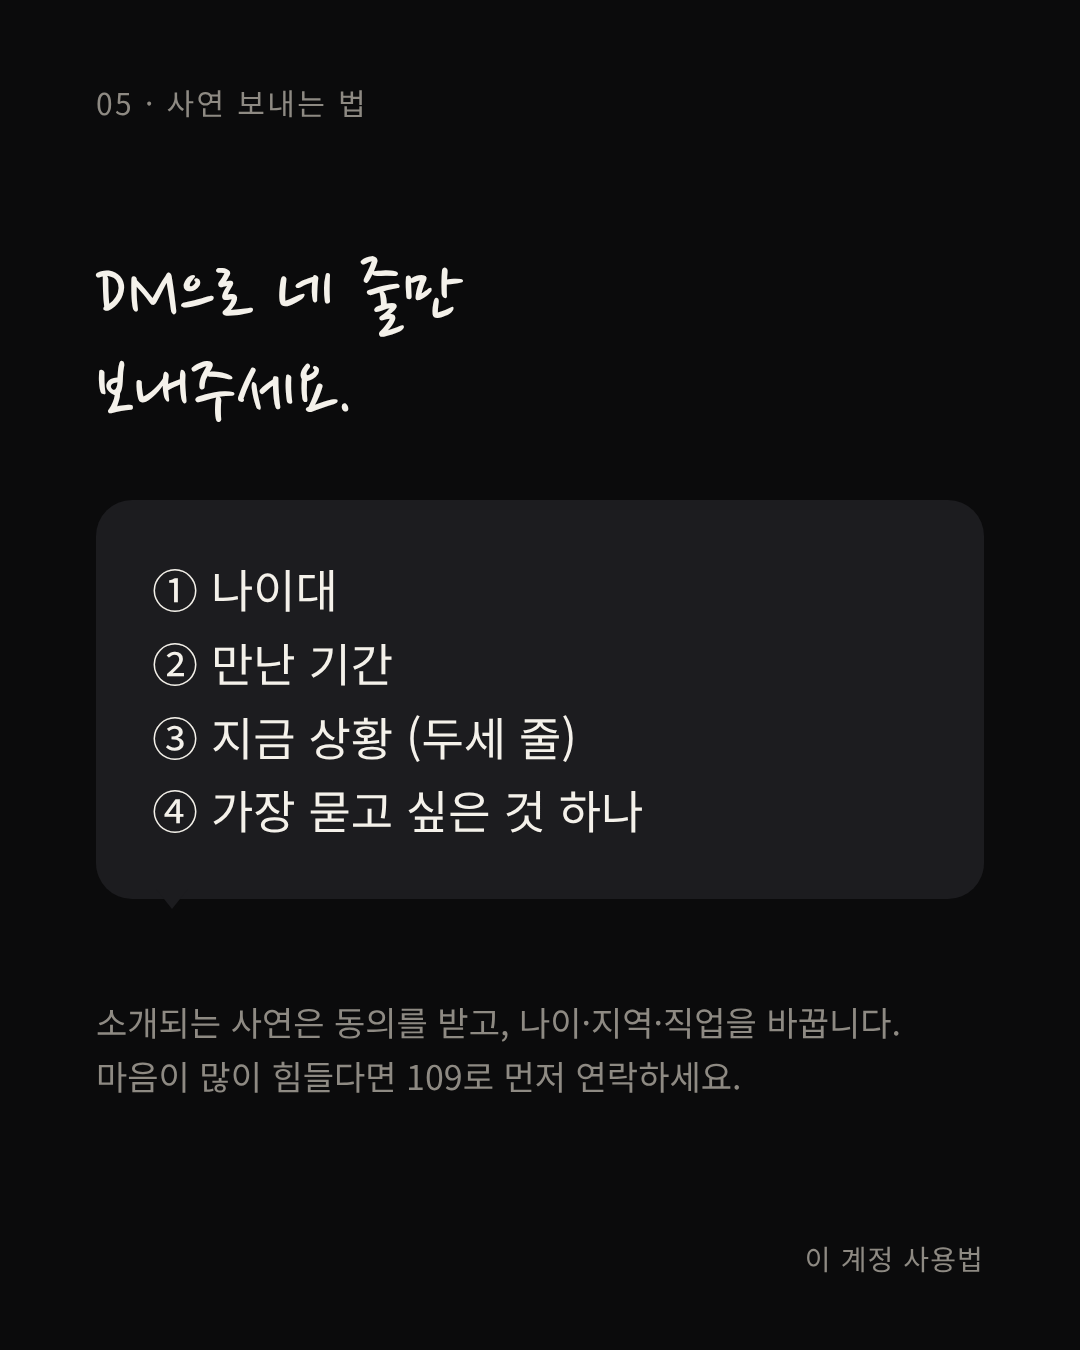
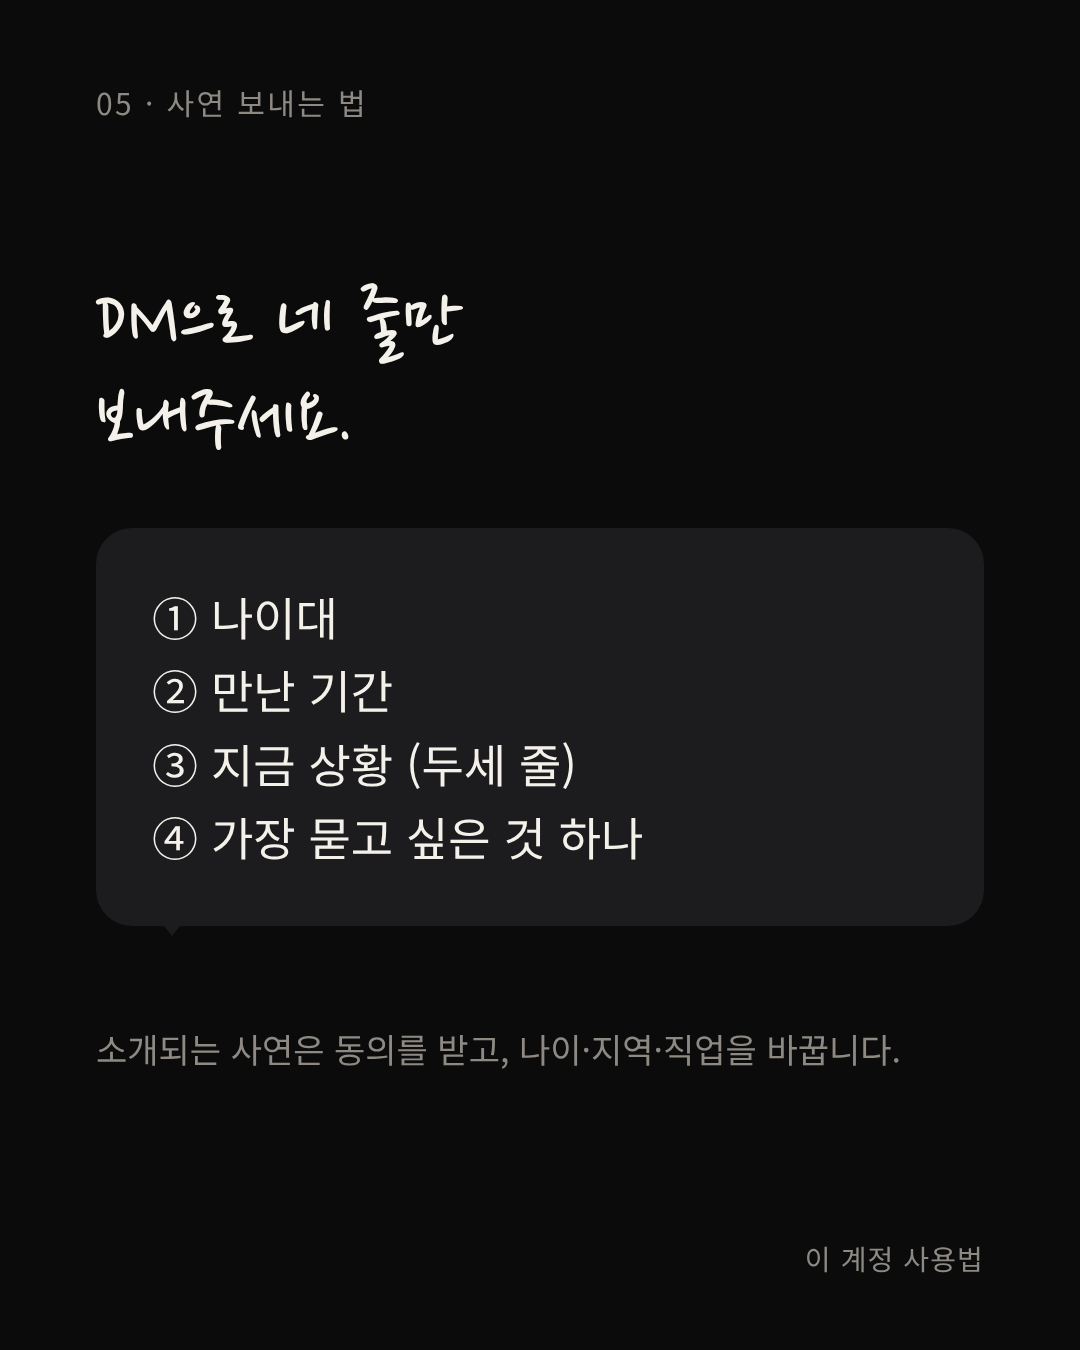
Remove 109 hotline mentions from about slides and consult DM
Claude-Session: https://claude.ai/code/session_01J9i5yL8MFhQ5W67Sx3nDW6

diff --git a/upload_kit/B_about.html b/upload_kit/B_about.html
@@ -53,7 +53,7 @@
   <div class="num">05 · 사연 보내는 법</div>
   <div class="pen h3">DM으로 네 줄만<br>보내주세요.</div>
   <div class="msg mt-m">① 나이대<br>② 만난 기간<br>③ 지금 상황 (두세 줄)<br>④ 가장 묻고 싶은 것 하나</div>
-  <div class="small mt-l">소개되는 사연은 동의를 받고, 나이·지역·직업을 바꿉니다.<br>마음이 많이 힘들다면 109로 먼저 연락하세요.</div>
+  <div class="small mt-l">소개되는 사연은 동의를 받고, 나이·지역·직업을 바꿉니다.</div>
   <div class="series">이 계정 사용법</div>
 </section>
 

diff --git a/carousel/plan90/topics.py b/carousel/plan90/topics.py
@@ -104,7 +104,7 @@ RULES = [
  ('고르는 순서', '① 0번 묶음(터진 편의 다음 편) → ② 이별 · 싸움 · 연락 끊김이 들어간 번역 → ③ 위험한 남자 · 오래 만난 연애 → ④ 반어 · 그녀의 말 → ⑤ "식을 때"는 캐러셀 주 1편'),
  ('팔로우가 필요할 때', '캐러셀 소재가 아니라 F 묶음(릴스)을 먼저 찍어요. 캐러셀이 터져도 팔로우는 거의 안 생겨요(팔로우 상위 4개 모두 릴스).'),
  ('해시태그 (10/26)', '5개만: 고정 3개(#남자심리 #연애심리 #남자들끼리하는말) + 주제 2개. 주제는 #이별 #재회 #결혼 #장기연애 #권태기 #썸 #연락 #여자심리 #남자속마음 #연애고민 안에서만 골라요.'),
- ('쓰지 않는 것', '비교형(~일까, ~일까), 썸 · 설렘 소재 늘리기(#20 1.2만), 같은 주에 비슷한 제목 두 번, 1366 안내(10/28 · 다들 아는 내용이라 피로해요)'),
+ ('쓰지 않는 것', '비교형(~일까, ~일까), 썸 · 설렘 소재 늘리기(#20 1.2만), 같은 주에 비슷한 제목 두 번, 1366 · 109 안내(10/28 · 다들 아는 내용이라 피로해요)'),
  ('목차 반영 (10/24)', '11/13 이후 비교형 18편을 0번 · A · B · D · E 소재로 전부 바꿨어요. 목차에 비교형은 이제 0편이에요. 아직 목차에 없는 건 B19~21 · E5 네 개뿐이라 예비로 둬요.'),
  ('지켜볼 것', '#23 「나중에 다 말해줄게」는 5시간 2.9천으로 출발이 느려요(#19는 7시간 7.4천). 표지 큰 제목이 "남자가"로 시작하지 않은 첫 편이에요. 내일 1만을 못 넘으면 "표지 큰 제목은 남자가 · 헤어지고로 시작"을 규칙으로 고정해요.'),
  ('#24 시험', '오늘 18~19시 「식을 때, 스킨십보다」가 24시간에 1만을 못 넘으면 "식을 때"는 캐러셀에서 빼고 릴스로만 써요.'),

diff --git a/consult/dm.py b/consult/dm.py
@@ -33,11 +33,10 @@ DM으로는 하나하나 제대로 답을 드리기 어려워서,
 내 상황을 1:1로 보고 싶다면
 카카오채널 [채널명]으로 "상담"이라고 보내주세요.'''),
  ('dm3','③ 위기 신호가 보일 때','''힘든 얘기 꺼내줘서 고마워요.
-보내주신 내용을 보니 지금은 상담보다 안전이 먼저예요.
+보내주신 내용을 보니 지금은 상담보다 당신이 먼저예요.
 
-자살예방상담 109 (24시간)
-
-먼저 이곳에 연락해 주세요. 혼자 견디지 않아도 돼요.'''),
+혼자 견디지 말고,
+가까운 사람에게 지금 상황을 먼저 이야기해 주세요.'''),
  ('dm4','④ 이번 주 마감일 때','''연락 고마워요.
 이번 주 상담은 마감됐어요. 다음 주 월요일에 다시 열려요.
 
